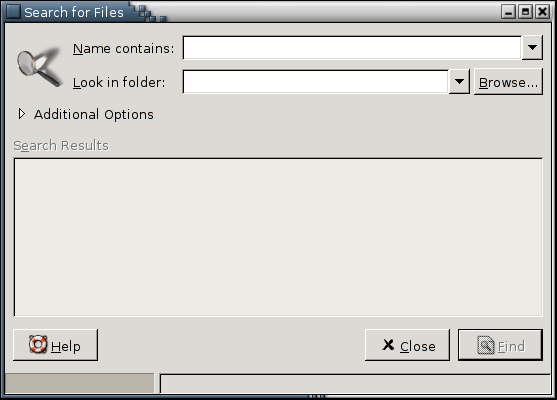
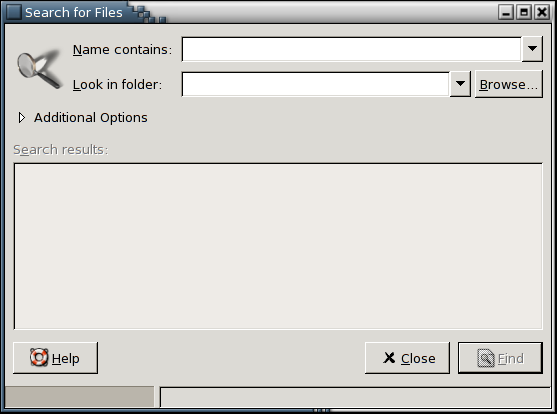
HIGify the mnemonic label of the listview.
2004-04-25  Dennis M. Cranston <dennis_cranston at yahoo com>

	* gsearchtool.c:  HIGify the mnemonic label of the listview.

	* help/C/figures/gnome-search-tool_window.png:  Update accordingly.
	* help/C/gnome-search-tool.xml: Update accordingly.

diff --git a/gsearchtool/gsearchtool.c b/gsearchtool/gsearchtool.c
@@ -1461,7 +1461,7 @@ create_search_results_section (void)
 	
 	vbox = gtk_vbox_new (FALSE, 0);	
 	
-	label = gtk_label_new_with_mnemonic (_("S_earch Results"));
+	label = gtk_label_new_with_mnemonic (_("S_earch results:"));
 	g_object_set (G_OBJECT(label), "xalign", 0.0, NULL);
 	gtk_box_pack_start (GTK_BOX (vbox), label, FALSE, FALSE, GNOME_PAD_SMALL);
 	
